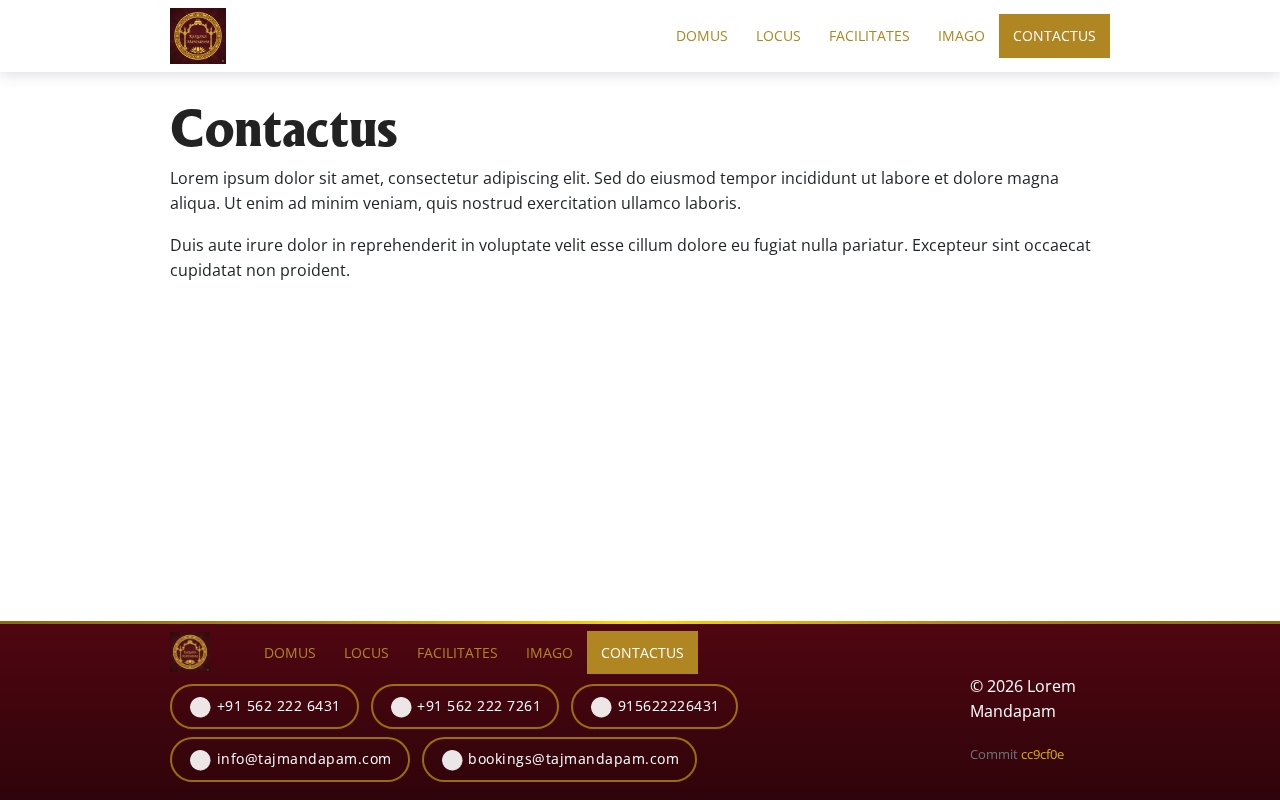
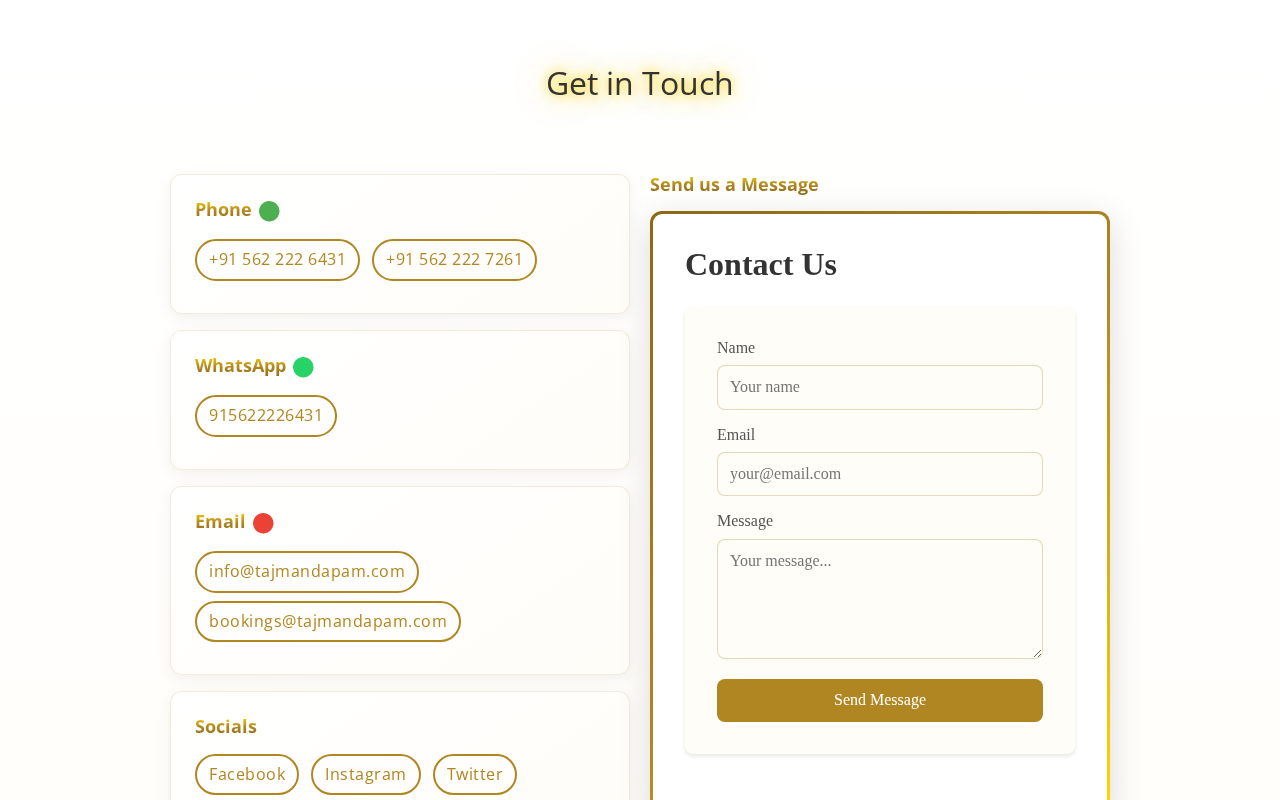
Integrate contact section into homepage
- Remove separate contact page, add contact section to homepage
- Create reusable contact-section.html partial
- Update menu to link to /#contact anchor
- Update screenshots script to capture contact section
- Update README and screenshots

diff --git a/layouts/partials/contact-section.html b/layouts/partials/contact-section.html
@@ -1,0 +1,90 @@
+{{- $contact := .Site.Data.contact -}}
+{{- if $contact -}}
+<section id="contact" class="contact-section">
+    <div class="container">
+        <div class="row justify-content-center">
+            <div class="col-12 text-center mb-4">
+                <h2>Get in Touch</h2>
+            </div>
+        </div>
+
+        <div class="row">
+            {{/* Left column: Contact links */}}
+            <div class="col-md-6 mb-4">
+                <ul class="list-group contact-links">
+                    {{ with $contact.phone }}
+                    <li class="list-group-item">
+                        {{ $callPng := (resources.Get "logos/call.png").Resize "24x" }}
+                        <h3><strong>Phone <img class="contact-icon" src="{{ $callPng.RelPermalink }}" alt="Telephone"></strong></h3>
+                        <div class="btn-group" role="group" aria-label="Telephone">
+                            {{ range . }}
+                                <a class="btn btn-outline-primary btn-contact" href="tel:{{ . }}">{{ . }}</a>
+                            {{ end }}
+                        </div>
+                    </li>
+                    {{ end }}
+                    {{ with $contact.whatsapp }}
+                    <li class="list-group-item">
+                        {{ $waPng := (resources.Get "logos/WhatsApp.png").Resize "24x" }}
+                        <h3><strong>WhatsApp <img class="contact-icon" src="{{ $waPng.RelPermalink }}" alt="WhatsApp"></strong></h3>
+                        <div class="btn-group" role="group" aria-label="WhatsApp">
+                            {{ range . }}
+                                <a class="btn btn-outline-primary btn-contact" href="https://wa.me/{{ . }}">{{ . }}</a>
+                            {{ end }}
+                        </div>
+                    </li>
+                    {{ end }}
+                    {{ with $contact.email }}
+                    <li class="list-group-item">
+                        {{ $emailPng := (resources.Get "logos/email.png").Resize "24x" }}
+                        <h3><strong>Email <img class="contact-icon" src="{{ $emailPng.RelPermalink }}" alt="Email"></strong></h3>
+                        <div class="btn-group" role="group" aria-label="Email">
+                            {{ range . }}
+                                <a class="btn btn-outline-primary btn-contact" href="mailto:{{ . }}?subject=Enquiry">{{ . }}</a>
+                            {{ end }}
+                        </div>
+                    </li>
+                    {{ end }}
+                    {{ with $contact.socials }}
+                    <li class="list-group-item">
+                        <h3><strong>Socials</strong></h3>
+                        <div class="btn-group" role="group" aria-label="Social Media">
+                            {{ range $name, $url := . }}
+                            <a class="btn btn-outline-primary btn-contact" target="_blank" href="{{ $url }}">{{ $name }}</a>
+                            {{ end }}
+                        </div>
+                    </li>
+                    {{ end }}
+                </ul>
+
+                {{ with $contact.address }}
+                <div class="address-block mt-4">
+                    <h3><strong>Address</strong></h3>
+                    <p>{{ . }}</p>
+                </div>
+                {{ end }}
+            </div>
+
+            {{/* Right column: Form and Map */}}
+            <div class="col-md-6">
+                {{ with $contact.form }}
+                <div class="contact-form-container mb-4">
+                    <h3><strong>Send us a Message</strong></h3>
+                    <div class="contact-form-iframe">
+                        {{- $formCSS := ":root{--cf-primary-color:#AF8622;--cf-primary-hover:#D4A84B;--cf-border-color:rgba(175,134,34,0.3);--cf-border-radius:8px;--cf-form-bg:#fffdf8;}" -}}
+                        {{- $separator := cond (strings.Contains . "?") "&" "?" -}}
+                        <iframe src="{{ . }}{{ $separator }}css={{ $formCSS | urlquery }}" title="Contact Form" loading="lazy" scrolling="no"></iframe>
+                    </div>
+                </div>
+                {{ end }}
+
+                {{ with $contact.map }}
+                <div class="google-maps-iframe">
+                    {{ .iframe | safeHTML }}
+                </div>
+                {{ end }}
+            </div>
+        </div>
+    </div>
+</section>
+{{- end -}}

diff --git a/assets/scss/pages/contact/_contact.scss b/assets/scss/pages/contact/_contact.scss
@@ -1,3 +1,75 @@
+// Contact section for homepage
+.contact-section {
+  padding: 4rem 0;
+  background: linear-gradient(180deg, #fff 0%, #fffdf8 100%);
+
+  h2 {
+    color: #333333;
+    text-shadow: 0 0 10px rgba(255, 215, 0, 0.8),
+                 0 0 20px rgba(255, 215, 0, 0.6),
+                 0 0 40px rgba(255, 215, 0, 0.4),
+                 0 0 60px rgba(175, 134, 34, 0.3);
+    margin-bottom: 2rem;
+  }
+
+  .address-block {
+    background: linear-gradient(145deg, #ffffff 0%, #fffdf8 100%);
+    border: 1px solid rgba(175, 134, 34, 0.15);
+    border-radius: 12px;
+    padding: 1.5rem;
+    box-shadow: 0 4px 16px rgba(0, 0, 0, 0.06);
+
+    h3 {
+      background: linear-gradient(180deg, #FFD700 0%, $primary 50%, #8B6914 100%);
+      -webkit-background-clip: text;
+      -webkit-text-fill-color: transparent;
+      background-clip: text;
+      margin-bottom: 0.75rem;
+      font-size: 1.1rem;
+    }
+
+    p {
+      margin-bottom: 0;
+      color: #555;
+    }
+  }
+
+  .contact-icon {
+    width: 24px;
+  }
+
+  .btn-contact {
+    @include border-radius(5rem);
+  }
+
+  .contact-links {
+    .list-group-item {
+      background: linear-gradient(145deg, #ffffff 0%, #fffdf8 100%);
+      border: 1px solid rgba(175, 134, 34, 0.15);
+      border-radius: 12px !important;
+      margin-bottom: 1rem;
+      padding: 1.5rem;
+      box-shadow: 0 4px 16px rgba(0, 0, 0, 0.06);
+      transition: all 0.3s ease;
+
+      &:hover {
+        box-shadow: 0 8px 24px rgba(175, 134, 34, 0.15);
+        border-color: rgba(175, 134, 34, 0.3);
+        transform: translateX(4px);
+      }
+
+      h3 {
+        background: linear-gradient(180deg, #FFD700 0%, $primary 50%, #8B6914 100%);
+        -webkit-background-clip: text;
+        -webkit-text-fill-color: transparent;
+        background-clip: text;
+        margin-bottom: 1rem;
+        font-size: 1.1rem;
+      }
+    }
+  }
+}
+
 .page-contact {
   .static-map {
     width: 90%;

diff --git a/layouts/index.html b/layouts/index.html
@@ -62,4 +62,6 @@ style="background-image: url('{{ $bg.RelPermalink }}');">
 </div>
 {{ end }}
 
+{{ partial "contact-section.html" . }}
+
 {{ end }}

diff --git a/README.md b/README.md
@@ -7,11 +7,11 @@ A Hugo theme for event venues and wedding halls (mandapams).
 ## Features
 
 - Responsive design with Bootstrap
-- Homepage with hero split-screen, services, and content strips
+- Homepage with hero split-screen, services, content strips, and contact section
 - Facilities section with image galleries
 - Gallery section with lightbox support (GLightbox)
 - Venue page with hero image
-- Contact page with phone, WhatsApp, email, and map integration
+- Integrated contact section with phone, WhatsApp, email, form, and map
 - Gold gradient heading styles with 3D shadow effects
 - Configurable logo and site parameters
 - PostCSS with autoprefixer for production builds
@@ -33,8 +33,8 @@ A Hugo theme for event venues and wedding halls (mandapams).
 ### Gallery
 ![Gallery](images/screenshot-gallery.png)
 
-### Contact
-![Contact](images/screenshot-contact.png)
+### Contact Section
+![Contact Section](images/screenshot-contact.png)
 
 ### Mobile
 ![Mobile](images/screenshot-mobile.png)
@@ -133,7 +133,7 @@ If no `form` URL is provided, the contact form section will not be rendered.
     weight = 40
   [[menus.main]]
     name = "Contact"
-    url = "/contact/"
+    url = "/#contact"
     weight = 50
 ```
 
